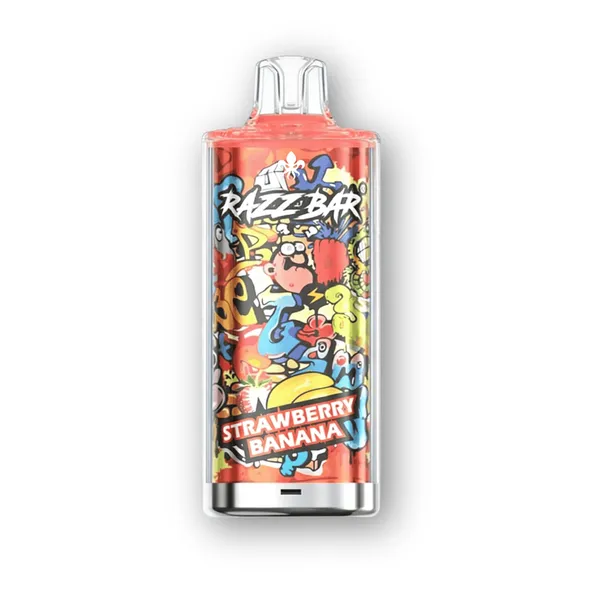
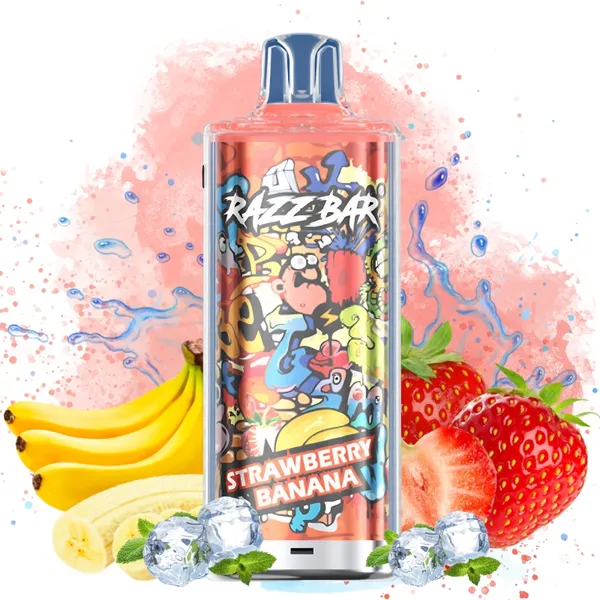
Razz Bar 60K: fotos con la fruta detrás y cartel con los 26 sabores
Los 16 sabores de siempre vuelven a las fotos de razzbarvape.es; 6 de los
nuevos usan las de 10lapuff.com (también con su sabor detrás) y 4
(Pineapple Coconut, Pink Lemonade, Strawberry Mango, Coconut Breeze) siguen
con la de fumup.fr, sin fondo, hasta encontrar una mejor. La foto del
producto pasa a ser el cartel oficial de razzbar.com con los 26 sabores.

diff --git a/README.md b/README.md
@@ -84,7 +84,7 @@ Te pide que escribas `SI` para seguir. Antes guarda los datos actuales en `copia
 
 La **primera vez** que arranca, con la base de datos vacía, la app carga la **Razz Bar 60K con sus 26 sabores** (20 mg, aviso de stock en 3 unidades y **sin precio**). Los datos están en `datos/catalogo-inicial.json`.
 
-- Las fotos de cada sabor se descargan de internet en ese momento (1000×1000). Si no hay conexión, usa copias más ligeras de las mismas fotos, que están en `datos/imagenes/` y en la ficha del producto aparece el botón **«Descargar imágenes en alta»** para volver a intentarlo.
+- Las fotos de cada sabor se descargan de internet en ese momento (800×800). Si no hay conexión, usa copias más ligeras de las mismas fotos, que están en `datos/imagenes/` y en la ficha del producto aparece el botón **«Descargar imágenes en alta»** para volver a intentarlo.
 - Lo primero que tienes que hacer: entra en Catálogo → Razz Bar 60K y pon el precio con **«Aplicar a todos los sabores»**. Mientras un sabor no tenga precio, no se puede vender.
 - Si subes tu propia foto de un sabor, la app no la sustituye por la de internet.
 
